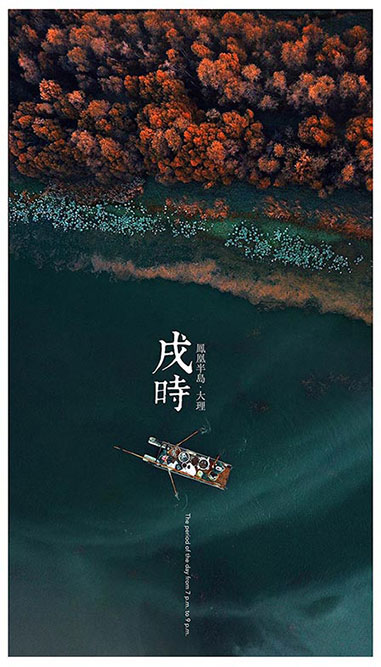
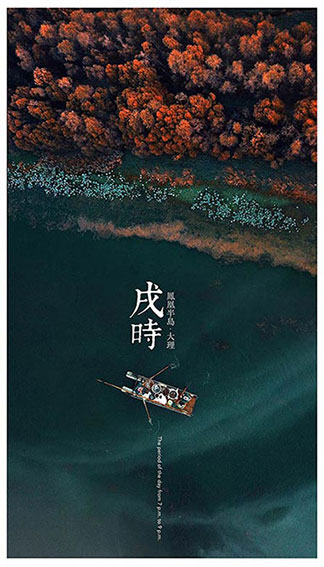
0.0.4

diff --git a/kitapp/src/pages/kit/LunarMotionsLib/PsychLib/HollandModule.js b/kitapp/src/pages/kit/LunarMotionsLib/PsychLib/HollandModule.js
@@ -979,12 +979,12 @@ export default class HollandModule extends Component {
   
   result()
   {
-    /*
+    
     if(false==this.check())
     {
       return
     }
-    */
+    
     var testHollands = this.state.Hollands
     var ret = new Array();
     ret["r"]=ret["i"]=ret["a"]=ret["s"]=ret["e"]=ret["c"]=0
@@ -1072,7 +1072,7 @@ export default class HollandModule extends Component {
           <View  >
             <AtToast isOpened={this.state.showtip} text="请先完成题目" icon="alert-circle" onClose={() => this.setState({ showtip: false })}></AtToast>
             <View className={'title'}>
-              <Text >MBTI</Text>
+              <Text >Holland</Text>
             </View>
 
             {content}

diff --git a/kitapp/src/pages/kit/litekitPage.js b/kitapp/src/pages/kit/litekitPage.js
@@ -13,7 +13,7 @@ var data1 =
      },
     {
       image: testimage,
-      value: '九形人格测试'
+      value: '九型人格测试'
     },
      
     {
@@ -63,7 +63,7 @@ export default class litekitPage extends Component {
     {
       Taro.navigateTo({url:'../../pages/kit/LunarMotionsLib/PsychLib/MBTIModule'})
     }
-    else if ("九形人格测试" == item.value) {
+    else if ("九型人格测试" == item.value) {
       Taro.navigateTo({ url: '../../pages/kit/LunarMotionsLib/PsychLib/EnneagramModule' })
     }
     else if ("霍兰德职业测试" == item.value) {

diff --git a/kitapp/src/pages/kit/tools/SloganShare.js b/kitapp/src/pages/kit/tools/SloganShare.js
@@ -75,7 +75,7 @@ export default class SloganShare extends Component {
         <ScrollView>
         <Image className={'imageslogan'}
           mode='widthFix'
-          style='width:90%'
+          style='width:80%'
           src={imgindex}
         />
               <View className={"contain"}>

diff --git a/kitapp/src/pages/slogan/slogan.js b/kitapp/src/pages/slogan/slogan.js
@@ -84,7 +84,7 @@ export default class Slogan extends Component {
       <View className={'contain'}>
         <Image className={'slogan'}
           mode='widthFix'
-          style='width:90%'
+          style='width:80%'
           src={imgindex}
         />
       </View>
